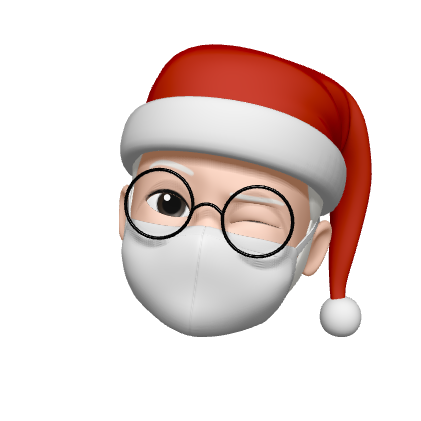
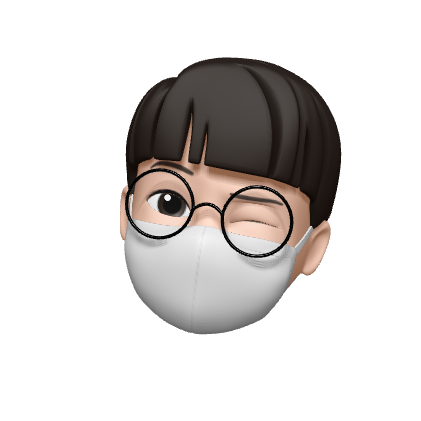
Update memoji, remove unnecessary fonts, change project order and remove bit.ly urls

Changed region(s): [[0.2779, 0.0926, 0.8955, 0.8029], [0.4323, 0.4632, 0.4632, 0.5249], [0.3397, 0.5558, 0.4014, 0.5867]]

diff --git a/index.html b/index.html
@@ -10,9 +10,9 @@
 	<link href="colors-light.css" media="(prefers-color-scheme: no-preference), (prefers-color-scheme: light)" rel="stylesheet">
 	<link href="colors-dark.css" media="(prefers-color-scheme: dark)" rel="stylesheet">
 	<link href="style.css" rel="stylesheet">
-	<link href="https://fonts.googleapis.com/css?family=Noto+Sans+KR:400,500,700&display=swap&subset=korean" rel="stylesheet">
-	<link href="https://fonts.googleapis.com/css?family=Montserrat:400,600,700,800&display=swap" rel="stylesheet">
-	<link href="https://fonts.googleapis.com/css?family=Nunito:400,600,700,700i,800i&display=swap" rel="stylesheet">
+	<link href="https://fonts.googleapis.com/css?family=Noto+Sans+KR:400,500&display=swap&subset=korean" rel="stylesheet">
+	<link href="https://fonts.googleapis.com/css?family=Montserrat:700&display=swap" rel="stylesheet">
+	<link href="https://fonts.googleapis.com/css?family=Nunito:400,600,700i,800i&display=swap" rel="stylesheet">
 </head>
 
 <body>
@@ -29,16 +29,23 @@
 		<div class="contents">
 			<div class="title">
 				Better experience<br>
-				— from <span class="accent" id="randomColor1">delicate</span> consideration
+				– from <span class="accent" id="randomColor1">delicate</span> consideration
 			</div>
 			<div class="description">
-				대한민국에서 UX 디자인을 공부하는<br>
+				프로그래밍과 UX 디자인을 공부하는<br>
 				<span class="accent" id="randomColor2">주찬휘</span>입니다. 👨🏻💻
 			</div>
 		</div>
 	</div>
 	<div class="float">
 		<div class="cards">
+			<div class="card" id="colorpicker2">
+				<a class="linkwithoutul" href="https://github.com/te6-in/ColorPicker" target="_blank" rel="noopener noreferrer"><img class="cardbg" src="images/projectthumbnails/colorpicker_2.png">
+					<div class="cardname">
+						ColorPicker 2
+					</div>
+				</a>
+			</div>
 			<div class="card" id="kakaomap">
 				<a class="linkwithoutul"><img class="cardbg" src="images/projectthumbnails/kakaomap_redesign.png">
 					<div class="cardname">
@@ -47,23 +54,16 @@
 				</a>
 			</div>
 			<div class="card" id="whitenoiseplayer">
-				<a class="linkwithoutul" href="http://bit.ly/te6-wnp" target="_blank" rel="noopener noreferrer"><img class="cardbg" src="images/projectthumbnails/white_noise_player.png">
+				<a class="linkwithoutul" href="https://www.behance.net/gallery/55297541/White-Noise-Player" target="_blank" rel="noopener noreferrer"><img class="cardbg" src="images/projectthumbnails/white_noise_player.png">
 					<div class="cardname">
 						백색 소음 믹서
 					</div>
 				</a>
 			</div>
-			<div class="card" id="colorpicker2">
-				<a class="linkwithoutul" href="http://bit.ly/te6-cp2download" target="_blank" rel="noopener noreferrer"><img class="cardbg" src="images/projectthumbnails/colorpicker_2.png">
-					<div class="cardname">
-						ColorPicker 2
-					</div>
-				</a>
-			</div>
 			<div class="card" id="earpopup" style="margin-bottom: 0.5em;">
-				<a class="linkwithoutul" href="http://bit.ly/te6-epu" target="_blank" rel="noopener noreferrer"><img class="cardbg" src="images/projectthumbnails/earpopup.png">
+				<a class="linkwithoutul" href="https://www.behance.net/gallery/21718793/EarPopup" target="_blank" rel="noopener noreferrer"><img class="cardbg" src="images/projectthumbnails/earpopup.png">
 					<div class="cardname">
-						위어 Earpopup
+						Earpopup
 					</div>
 				</a>
 			</div>
@@ -84,7 +84,7 @@
 						</a>
 					</div>
 					<div class="card" id="behance">
-						<a href="http://bit.ly/te6-behance" target="_blank" rel="noopener noreferrer">
+						<a href="https://www.behance.net/te_6" target="_blank" rel="noopener noreferrer">
 							<div class="cardbg">
 								<svg class="logo" height="50" viewbox="0 0 80 50" width="80" xmlns="http://www.w3.org/2000/svg">
 									<path d="M390.651411,84.5386708 C393.665421,84.5386708 396.305716,85.1164039 398.568558,86.2960975 C400.823927,87.4571546 402.671947,89.031943 404.125697,91.00369 C405.577579,92.9735734 406.6109,95.2248686 407.257427,97.7482575 C407.896479,100.269783 408.122576,102.903127 407.937588,105.661337 L382.226012,105.661337 C382.226012,108.469865 383.178985,111.1293 384.649552,112.55686 C386.114514,113.98442 388.233477,114.703791 390.978412,114.703791 C392.951626,114.703791 394.657633,114.206195 396.088961,113.212867 C397.507209,112.223266 398.37049,111.162846 398.704964,110.06329 L407.322827,110.06329 C405.938214,114.340378 403.836068,117.394908 400.967807,119.232472 C398.135049,121.079354 394.678188,122 390.651411,122 C387.844813,122 385.318502,121.545268 383.051922,120.654441 C380.785342,119.750568 378.890608,118.483283 377.296714,116.832085 C375.743929,115.173432 374.538699,113.212867 373.679155,110.911253 C372.828954,108.620821 372.399182,106.084386 372.399182,103.335495 C372.399182,100.677923 372.845771,98.1955347 373.714658,95.9013754 C374.604099,93.5997615 375.831752,91.6131052 377.4462,89.9469977 C379.066254,88.2715718 380.985279,86.9502404 383.220093,85.9848671 C385.456776,85.0213575 387.921425,84.5386708 390.651411,84.5386708 Z M351.200212,72 C353.552747,72 355.677315,72.2031384 357.618763,72.6224608 C359.549,73.0306012 361.197082,73.7126989 362.58917,74.6482538 C363.960703,75.5819449 365.033264,76.8250028 365.801248,78.390473 C366.550546,79.9335793 366.927998,81.8643259 366.927998,84.1491669 C366.927998,86.6203735 366.365557,88.6834396 365.240676,90.3327742 C364.10832,91.9802453 362.443421,93.3313951 360.219818,94.3806329 C363.248776,95.2490961 365.491065,96.7791569 366.97845,98.9521786 C368.473309,101.14011 369.203921,103.760409 369.203921,106.829848 C369.203921,109.319691 368.725566,111.461031 367.772594,113.263185 C366.808409,115.087704 365.496671,116.567446 363.880354,117.708003 C362.250958,118.859741 360.378647,119.703977 358.282107,120.253755 C356.20799,120.803533 354.055393,121.079354 351.850476,121.079354 L328,121.079354 L328,72 L351.200212,72 Z M350.61348,99.2056357 L338.833991,99.2056357 L338.833991,112.720862 L350.396726,112.720862 C351.46555,112.720862 352.480185,112.625815 353.435027,112.413359 C354.402948,112.200902 355.262492,111.867308 355.987499,111.371576 C356.712505,110.896344 357.312317,110.244064 357.749564,109.412874 C358.18681,108.591002 358.39609,107.523128 358.39609,106.231615 C358.39609,103.702635 357.682295,101.906072 356.264047,100.815834 C354.842063,99.7405047 352.94546,99.2056357 350.61348,99.2056357 Z M390.358045,91.9075627 C388.794049,91.9075627 387.499127,92.1703381 386.463937,92.7052071 C385.45117,93.2326214 384.619655,93.8904916 383.986208,94.6639085 C383.354631,95.4503709 382.92299,96.2796973 382.672601,97.1667971 C382.422212,98.031533 382.272726,98.8161318 382.226012,99.5094115 L398.149998,99.5094115 C397.916426,97.0195684 397.062488,95.1801409 395.894629,93.8867643 C394.730508,92.602706 392.761031,91.9075627 390.358045,91.9075627 Z M348.971004,80.3603563 L338.833991,80.3603563 L338.833991,91.8292892 L349.798782,91.8292892 C351.717807,91.8292892 353.306095,91.3745574 354.565514,90.4520482 C355.811853,89.5463118 356.41727,88.0460696 356.41727,85.9885944 C356.41727,84.8480376 356.215465,83.9031645 355.811853,83.1707481 C355.395161,82.4383317 354.842063,81.8643259 354.143216,81.4636401 C353.449975,81.0461814 352.667043,80.7573148 351.757047,80.6026315 C350.865738,80.4274479 349.929582,80.3603563 348.971004,80.3603563 Z M400.171795,75.2930784 L400.171795,80.1367177 L380.224769,80.1367177 L380.224769,75.2930784 L400.171795,75.2930784 Z" fill-rule="evenodd" transform="translate(-328 -72)"></path>
@@ -93,7 +93,7 @@
 						</a>
 					</div>
 					<div class="card" id="instagram">
-						<a href="http://bit.ly/te6-instagram" target="_blank" rel="noopener noreferrer">
+						<a href="https://www.instagram.com/te6.in/" target="_blank" rel="noopener noreferrer">
 							<div class="cardbg">
 								<img class="instagrambg" src="images/assets/bg_instagram.png"> <svg class="logo" height="72" viewbox="0 0 72 72" width="72" xmlns="http://www.w3.org/2000/svg">
 									<path d="M359.592054,59 L368.406472,59 C374.285529,59.0143 375.674337,59.0678056 378.842207,59.2123578 C382.674047,59.3871438 385.291056,59.9958223 387.580957,60.885902 C389.948312,61.8058511 391.955976,63.036928 393.957496,65.038464 C395.958873,67.040143 397.189851,69.0479673 398.10987,71.4155107 C398.961046,73.606025 399.55491,76.0958455 399.757894,79.661928 L399.86915,82.1373239 C399.955177,84.3265702 399.988465,86.2923129 399.997236,91.4478539 L399.991344,100.715867 C399.972185,105.516151 399.916291,106.924775 399.783138,109.843288 C399.608366,113.675432 398.999736,116.29265 398.10987,118.582733 C397.189851,120.950276 395.958873,122.958101 393.957496,124.95978 C391.955976,126.961316 389.948312,128.192392 387.580957,129.112484 C385.390617,129.963728 382.900995,130.557639 379.335196,130.760639 L376.859998,130.871904 C374.67093,130.957938 372.705359,130.991229 367.5503,131 L358.282995,130.994108 C353.483031,130.974947 352.074519,130.919049 349.156239,130.785886 C345.324399,130.6111 342.70739,130.002421 340.417489,129.112484 C338.050134,128.192392 336.04247,126.961316 334.04095,124.95978 C332.039573,122.958101 330.808594,120.950276 329.888719,118.582733 C329.037406,116.392219 328.443536,113.902398 328.240552,110.336316 L328.109696,107.339411 C328.033914,105.220251 328.006045,103.054748 328,97.6871667 L328.002967,90.5916022 C328.017266,84.7119966 328.070767,83.3230781 328.215308,80.1549559 C328.39008,76.3228112 328.99871,73.7055938 329.888719,71.4155107 C330.808594,69.0479673 332.039573,67.040143 334.04095,65.038464 C336.04247,63.036928 338.050134,61.8058511 340.417489,60.885902 C342.607829,60.0345214 345.097451,59.4406043 348.66325,59.2376041 L351.659918,59.1067382 C353.536744,59.039611 355.449935,59.010075 359.592054,59 L359.592054,59 Z M370.092605,65.4925165 L357.905897,65.4925165 C353.590423,65.5120839 352.235725,65.5657091 349.451908,65.6927326 C345.941889,65.8527983 344.035687,66.4393249 342.767124,66.9323844 C341.086711,67.5855097 339.887457,68.3656872 338.627754,69.625633 C337.367908,70.885436 336.587793,72.0847855 335.93472,73.7653326 L335.823833,74.0581476 C335.37582,75.2745371 334.884392,77.0513333 334.714679,80.0671671 L334.59495,82.8154762 C334.525984,84.7128348 334.49777,86.5885468 334.488762,90.8471857 L334.494966,101.092989 C334.514532,105.40875 334.568153,106.763557 334.695167,109.547595 C334.85522,113.057893 335.441699,114.964247 335.93472,116.232911 C336.587793,117.913458 337.368051,119.112808 338.627754,120.372611 C339.887457,121.632556 341.086711,122.412734 342.767124,123.065859 L343.059916,123.176755 C344.276208,123.624803 346.052863,124.116271 349.068457,124.285997 L351.515387,124.394471 C353.786689,124.48186 355.847212,124.509759 361.766082,124.514631 L369.4229,124.508412 C374.276752,124.491339 375.623971,124.438886 378.546538,124.305511 C382.056557,124.145445 383.962759,123.558919 385.231322,123.065859 C386.911735,122.412734 388.110989,121.632556 389.370692,120.372611 C390.630538,119.112808 391.410653,117.913458 392.063726,116.232911 L392.174613,115.940096 C392.622625,114.723706 393.114054,112.94691 393.283767,109.931076 L393.392233,107.483718 C393.479615,105.211999 393.507511,103.151252 393.512383,97.2323919 L393.506164,89.5754402 C393.489092,84.721401 393.436643,83.3738889 393.303279,80.4506488 C393.143226,76.9403504 392.556747,75.0339963 392.063726,73.7653326 C391.410653,72.0847855 390.630538,70.885436 389.370692,69.625633 C388.110989,68.3656872 386.911735,67.5855097 385.231322,66.9323844 L384.93853,66.8214884 C383.722238,66.3734407 381.945583,65.8819727 378.929989,65.7122463 L376.181901,65.5925081 C374.600898,65.5350319 373.034935,65.5058579 370.092605,65.4925165 L370.092605,65.4925165 Z M363.999293,76.9974096 C373.940567,76.9974096 381.999502,85.0569867 381.999502,94.9991913 C381.999502,104.941257 373.940567,113.000834 363.999293,113.000834 C354.057879,113.000834 345.998944,104.941257 345.998944,94.9991913 C345.998944,85.0569867 354.057879,76.9974096 363.999293,76.9974096 Z M363.999293,83.3137925 C357.546077,83.3137925 352.314824,88.5454625 352.314824,94.9991913 C352.314824,101.452781 357.546077,106.684451 363.999293,106.684451 C370.452369,106.684451 375.683622,101.452781 375.683622,94.9991913 C375.683622,88.5454625 370.452369,83.3137925 363.999293,83.3137925 Z M383.999471,70.9968388 C386.208661,70.9968388 387.999595,72.7879157 387.999595,74.9972855 C387.999595,77.2066553 386.208661,78.9975998 383.999471,78.9975998 C381.790406,78.9975998 379.999471,77.2066553 379.999471,74.9972855 C379.999471,72.7879157 381.790406,70.9968388 383.999471,70.9968388 Z" fill-rule="evenodd" transform="translate(-328 -59)"></path>
@@ -102,7 +102,7 @@
 						</a>
 					</div>
 					<div class="card" id="applemusic">
-						<a href="http://apple.co/2RQDNW4" target="_blank" rel="noopener noreferrer">
+						<a href="https://music.apple.com/profile/_0" target="_blank" rel="noopener noreferrer">
 							<div class="cardbg">
 								<div class="applemusicbg">
 								</div>
@@ -127,11 +127,6 @@
 				</div>
 			</div>
 			<div class="footer">
-				<span class="copyright">
-					<span class="crnolb">Copyright © 2020 주찬휘.</span>
-					<span class="crnolb">모든 권리 보유.</span>
-				</span>
-				<br>
 				<span class="darktxt" id="darktxt">　</span>
 			</div>
 		</div>

diff --git a/style.css b/style.css
@@ -340,15 +340,6 @@ body {
 	align-items: center;
 }
 
-.main2 .contents .footer .copyright {
-	color: var(--subtext);
-	font-family: 'Noto Sans KR', sans-serif;
-	font-weight: 400;
-	text-align: center;
-	font-size: 1em;
-	margin-bottom: 0.6em;
-}
-
 .main2 .contents .footer .darktxt {
 	color: var(--subtext);
 	font-family: 'Noto Sans KR', sans-serif;
@@ -425,11 +416,6 @@ body {
 	.main2 .contents .cards .cardbg:hover .logo {
 		width: 2em;
 		height: 2em;
-	}
-
-	.main2 .contents .footer .copyright .crnolb {
-		display: inline-block;
-		width: 100vw;
 	}
 
 	#instagram .instagrambg {
